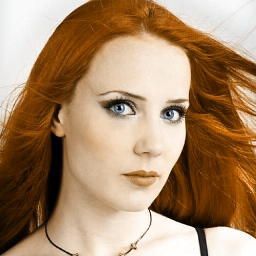
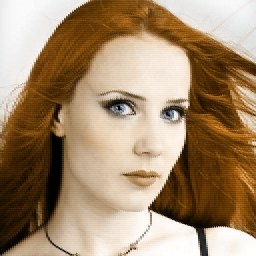
Raw & result images displaying

diff --git a/PSMIS_Image_compression/PSMIS_Image_compression.cpp b/PSMIS_Image_compression/PSMIS_Image_compression.cpp
@@ -7,33 +7,44 @@
 
 int main()
 {
-	const char* imagePath = nullptr;
+	const char* rawImagePath = nullptr;
+
 	uint choise;
 	do
 	{
-		std::cout << "Choose an image: \n1. Redhead\n2. Flower\n3. Fight\n";
+		std::cout << "choose an image: \n1. redhead\n2. flower\n3. fight\n4. bread\n5. witch\n";
 		std::cin >> choise;
 
 		switch (choise)
 		{
 		case 1:
 		{
-			imagePath = "C:\\Users\\User\\source\\repos\\PSMIS_Image_compression\\PSMIS_Image_compression\\src\\redhead.png";
+			rawImagePath = "C:\\Users\\User\\source\\repos\\PSMIS_Image_compression\\PSMIS_Image_compression\\src\\redhead.png";
 			break;
 		}
 		case 2:
 		{
-			imagePath = "C:\\Users\\User\\source\\repos\\PSMIS_Image_compression\\PSMIS_Image_compression\\src\\flower.png";
+			rawImagePath = "C:\\Users\\User\\source\\repos\\PSMIS_Image_compression\\PSMIS_Image_compression\\src\\flower.png";
 			break;
 		}
 		case 3:
 		{
-			imagePath = "C:\\Users\\User\\source\\repos\\PSMIS_Image_compression\\PSMIS_Image_compression\\src\\fight.png";
+			rawImagePath = "C:\\Users\\User\\source\\repos\\PSMIS_Image_compression\\PSMIS_Image_compression\\src\\fight.png";
+			break;
+		}
+		case 4:
+		{
+			rawImagePath = "C:\\Users\\User\\source\\repos\\PSMIS_Image_compression\\PSMIS_Image_compression\\src\\bread.png";
+			break;
+		}
+		case 5:
+		{
+			rawImagePath = "C:\\Users\\User\\source\\repos\\PSMIS_Image_compression\\PSMIS_Image_compression\\src\\witch.png";
 			break;
 		}
 		}
 
-		if (imagePath == nullptr)
+		if (rawImagePath == nullptr)
 		{
 			system("cls");
 			choise = 0;
@@ -43,20 +54,29 @@ int main()
 	uint n = 0;
 	uint m = 0;
 	system("cls");
-	std::cout << "Enter n (snippet height), m (snippet width) parameters: ";
+	std::cout << "enter n (snippet height), m (snippet width) parameters: ";
 	std::cin >> n >> m;
 
 	uint p;
 	system("cls");
-	std::cout << "Enter p (hidden layer neurons number, <= " << 2 * n * m * 3 << ") parameter: ";
+	std::cout << "enter p (hidden layer neurons number, <= " << 2 * n * m * 3 << ") parameter: ";
 	std::cin >> p;
 
 	double e;
-	std::cout << "Enter e parameter: ";
+	std::cout << "enter e parameter: ";
 	std::cin >> e;
 
-	Image* image = new Image(n, m, imagePath);
+	Image* image = new Image(n, m, rawImagePath);
 	NeuralNetwork* nn = new NeuralNetwork(image, e, p);
 
 	nn->run();
+
+	cimg_library::CImg<uchar>* rawImage = new cimg_library::CImg<uchar>(rawImagePath);
+	cimg_library_suffixed::CImgDisplay raw_disp(*rawImage, "raw"), result_disp(*image->getRaw(), "result");
+
+	while (!raw_disp.is_closed() && !result_disp.is_closed())
+	{
+		raw_disp.wait();
+		result_disp.wait();
+	}
 }

diff --git a/PSMIS_Image_compression/image.cpp b/PSMIS_Image_compression/image.cpp
@@ -11,7 +11,7 @@ Image::Image(uint n, uint m)
 	this->snippetHeight = m;
 
 	image = new cimg_library::CImg<uchar>();
-	path = nullptr;
+	rawPath = nullptr;
 	tempHeight = tempWidth = 0;
 	snippets = nullptr;
 
@@ -20,7 +20,7 @@ Image::Image(uint n, uint m)
 
 Image::Image(uint n, uint m, const char* path) : Image(n, m)
 {
-	this->path = (char*)path;
+	this->rawPath = (char*)path;
 	load(path);
 	tempWidth = image->width() / m;
 	tempHeight = image->height() / n;
@@ -75,6 +75,11 @@ void Image::setColor(uint x, uint y, int* color)
 	(*image)(x, y, 2) = color[2];
 }
 
+cimg_library::CImg<uchar>* Image::getRaw()
+{
+	return image;
+}
+
 void Image::load(const char* path)
 {
 	image->load(path);
@@ -82,7 +87,7 @@ void Image::load(const char* path)
 
 void Image::save()
 {
-	image->save(path, 1, 1);
+	image->save(rawPath, 1, 1);
 }
 
 void Image::initSnippets()
@@ -133,5 +138,5 @@ Image::~Image()
 	delete image;
 	delete[] snippets;
 
-	delete[] path;
+	delete[] rawPath;
 }

diff --git a/PSMIS_Image_compression/Image.h b/PSMIS_Image_compression/Image.h
@@ -21,7 +21,7 @@ private:
 	cimg_library::CImg<uchar>* image;
 	vector<ImageSnippet*>* snippets;
 
-	char* path;
+	char* rawPath;
 	uint compressionIterationNumber = 0;
 
 	void initSnippets();
@@ -40,6 +40,7 @@ public:
 	uint getHeight() const;
 	void setColor(uint x, uint y, int* color);
 
+	cimg_library::CImg<uchar>* getRaw();
 	void load(const char* path);
 	void save();
 
